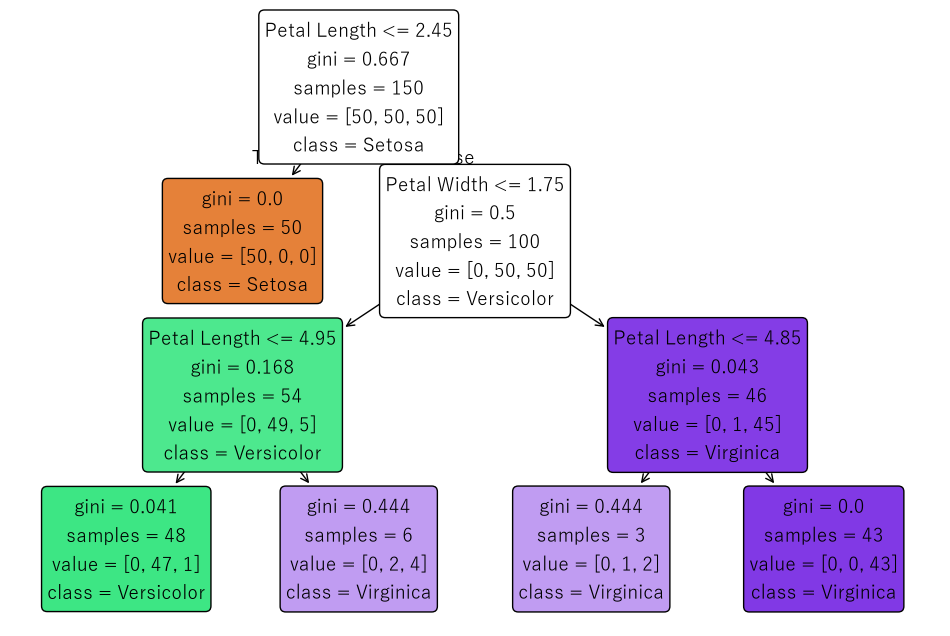
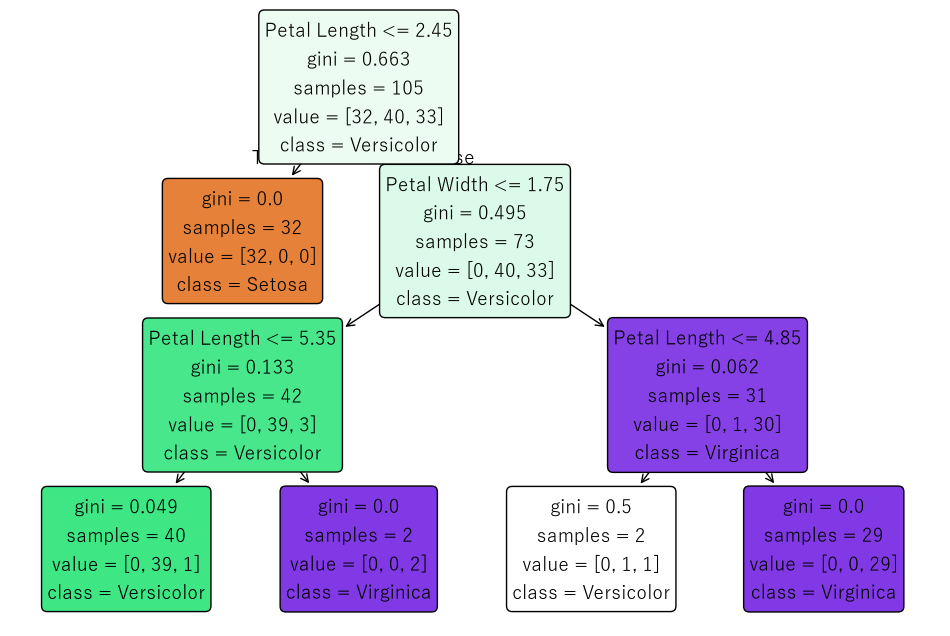
trained tree

diff --git a/test18.py b/test18.py
@@ -1,14 +1,21 @@
 import matplotlib.pyplot as plt
 from sklearn.datasets import load_iris
+from sklearn.model_selection import train_test_split
 from sklearn.tree import DecisionTreeClassifier, plot_tree
 
-# 1. Đọc dữ liệu
+# Đọc tập dữ liệu Iris
 iris = load_iris()
 X, y = iris.data, iris.target
 
-# 2. Huấn luyện mô hình
+# Phân chia tập dữ liệu thành tập huấn luyện và kiểm tra
+X_train, X_test, y_train, y_test = train_test_split(
+    X, y, test_size=0.3, random_state=123
+)
+
+# Khởi tạo cây quyết định (độ sâu tối đa = 3)
 tree = DecisionTreeClassifier(max_depth=3, random_state=123)
-tree.fit(X, y)
+# Huấn luyện mô hình
+tree.fit(X_train, y_train)
 
 # 3. Vẽ và lưu ảnh bằng matplotlib
 plt.figure(figsize=(12, 8))
